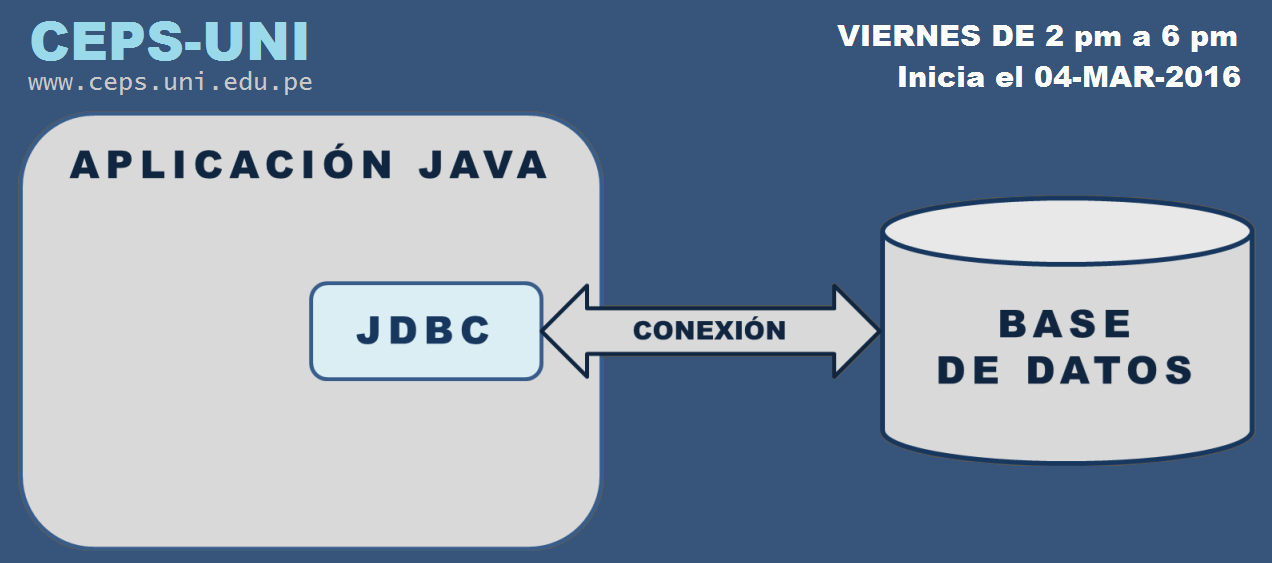
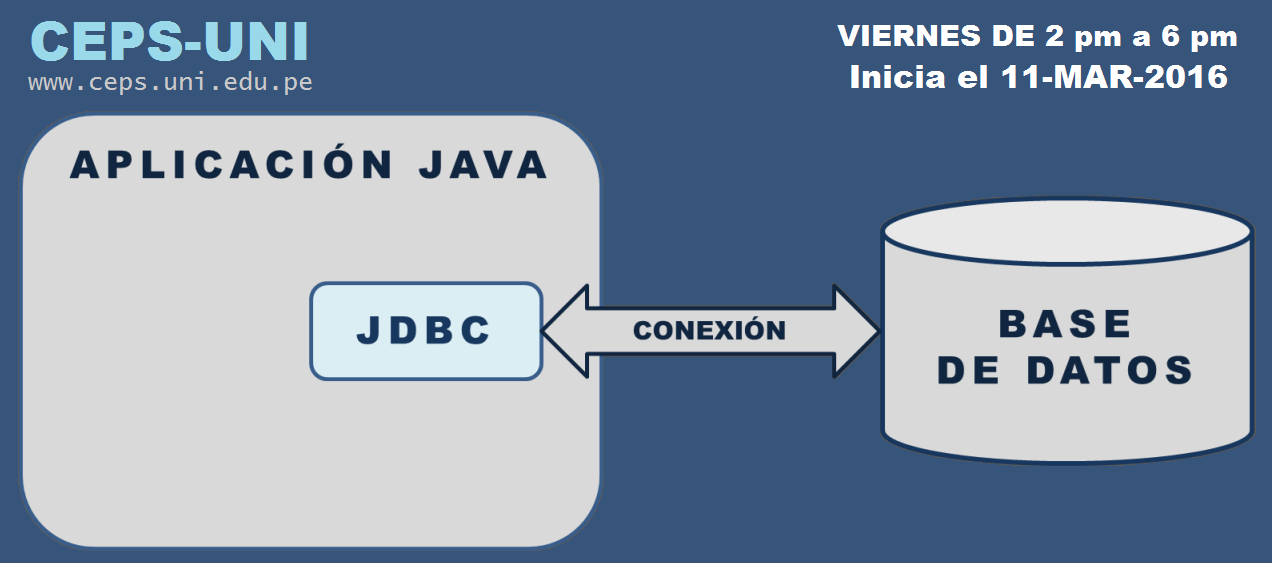
Actualizando el repositorio.

Changed region(s): [[0.6439, 0.0906, 0.9811, 0.1812]]

diff --git a/README.md b/README.md
@@ -4,7 +4,7 @@
 
 - Lugar: CEPS-UNI
 - Horario: VIERNES de 2 pm a 6 pm
-- Inicio: 04-MARZO-2016
+- Inicio: 11-MARZO-2016
 - Dirección: https://goo.gl/maps/FvheiZsxDDy
 - Contenido: http://www.ceps.uni.edu.pe/doc_web/programas/programacion/des_apli_con_jdbc.html
 - Página: http://gcoronelc.github.io/CEPSUNI_JDBC_002/
@@ -29,7 +29,7 @@
 
 # CLASE 01 
 
-- Fecha: 04-MARZO-2016
+- Fecha: 11-MARZO-2016
 
 
 
